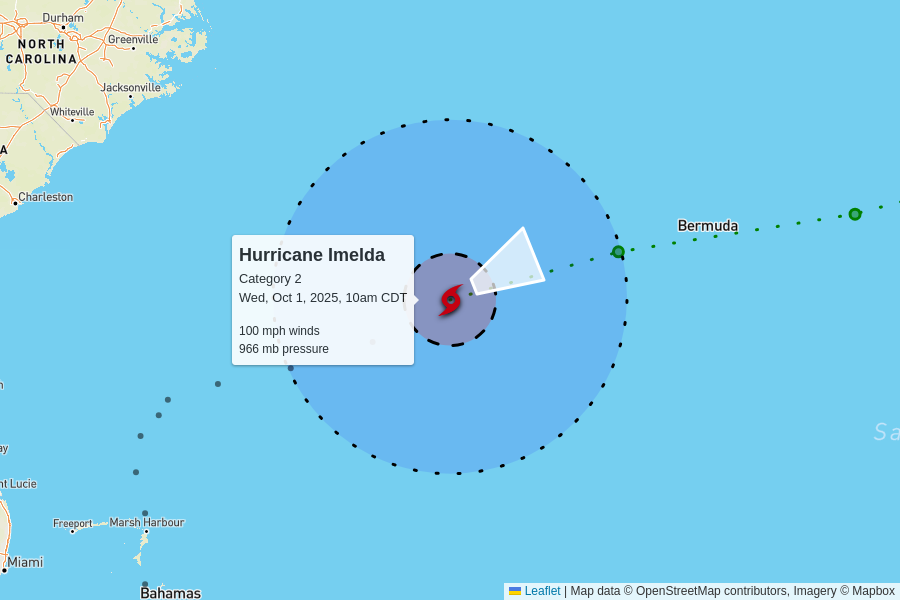
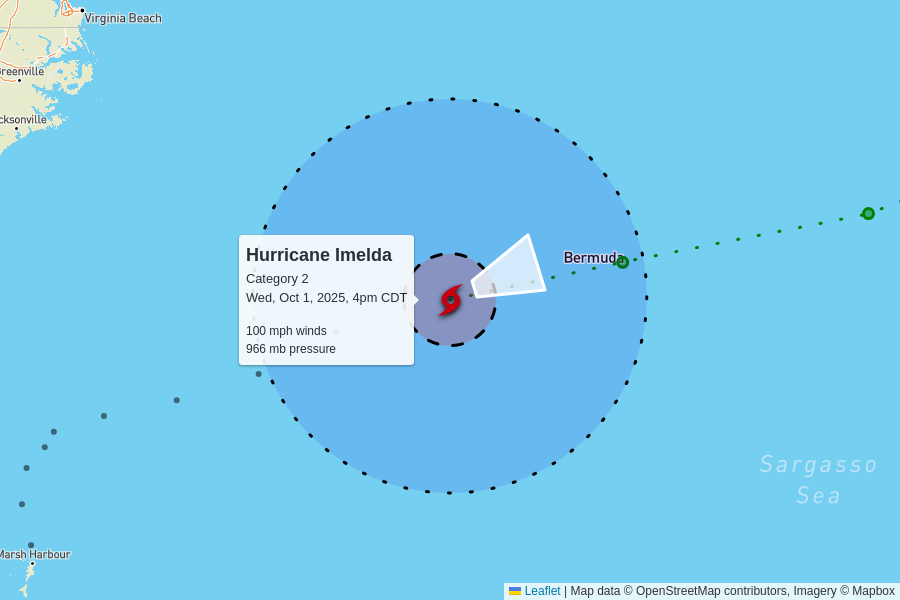
automatic update

diff --git a/docs/index.html b/docs/index.html
@@ -99,32 +99,10 @@
 
     <table>
       <tr>
-        <td colspan="6" class="storm " style="cursor:pointer;" onClick="toggle('AL082025')">
-          <h2>🏁 Humberto
-          </h2>
-        </td>
-      </tr>
-      
-      <tr id="storm_AL082025" style="display:none;">
-        <td class="spacer">
-        <td colspan="5">
-          <figure>
-            <img src="AL082025.png">
-            <figcaption>
-              Map data &copy; <a href="https://www.openstreetmap.org/copyright">OpenStreetMap</a> contributors,
-              Imagery &copy; <a href="https://www.mapbox.com/">Mapbox</a> |
-              <a href="https://www.mapbox.com/map-feedback/" target="_blank">Improve this map</a>
-            </figcaption>
-          </figure>
-        </td>
-      </tr>
-      
-
-      <tr>
         <td colspan="6" class="storm category-2" >
           <h2>
             Hurricane Imelda - Category 2
-            <p class="updated">last updated <span data-time>2025-10-01T15:00:00.000Z</span></p>
+            <p class="updated">last updated <span data-time>2025-10-01T21:00:00.000Z</span></p>
           </h2>
         </td>
       </tr>
@@ -139,12 +117,12 @@
       </tr>
       <tr>
         <td class="spacer"></td>
-        <td>100 mph<br>+10 mph since last update</td>
-        <td>966 mb<br>-8 mb since last update</td>
+        <td>100 mph<br>0 mph since last update</td>
+        <td>966 mb<br>0 mb since last update</td>
         <td>
-          20 mph to the east-northeast
+          22 mph to the east-northeast
           <br/>
-          <span style="display: inline-block; font-size: 1.5em; transform: rotate(65deg);">↑</span>
+          <span style="display: inline-block; font-size: 1.5em; transform: rotate(70deg);">↑</span>
         </td>
         <td><a href="https://raw.githubusercontent.com/mgwalker/atlantic-hurricanes/main/data/csv/AL092025.csv">AL092025.csv</a></td>
         <td><a href="https://www.nhc.noaa.gov/archive/2025/IMELDA.shtml?">NHC advisories</a></td>
@@ -154,6 +132,28 @@
         <td colspan="5">
           <figure>
             <img src="AL092025.png">
+            <figcaption>
+              Map data &copy; <a href="https://www.openstreetmap.org/copyright">OpenStreetMap</a> contributors,
+              Imagery &copy; <a href="https://www.mapbox.com/">Mapbox</a> |
+              <a href="https://www.mapbox.com/map-feedback/" target="_blank">Improve this map</a>
+            </figcaption>
+          </figure>
+        </td>
+      </tr>
+      
+
+      <tr>
+        <td colspan="6" class="storm " style="cursor:pointer;" onClick="toggle('AL082025')">
+          <h2>🏁 Humberto
+          </h2>
+        </td>
+      </tr>
+      
+      <tr id="storm_AL082025" style="display:none;">
+        <td class="spacer">
+        <td colspan="5">
+          <figure>
+            <img src="AL082025.png">
             <figcaption>
               Map data &copy; <a href="https://www.openstreetmap.org/copyright">OpenStreetMap</a> contributors,
               Imagery &copy; <a href="https://www.mapbox.com/">Mapbox</a> |
